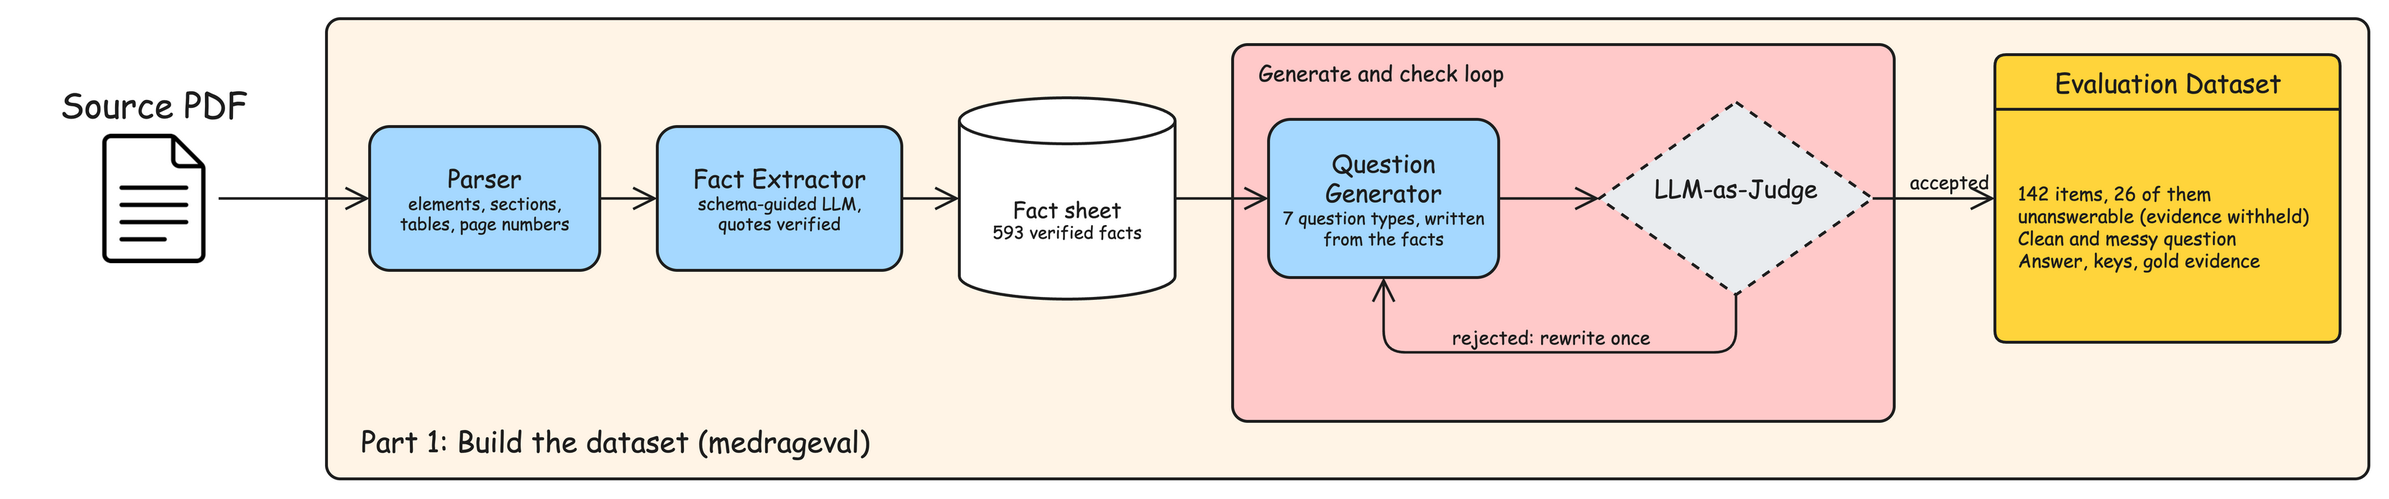
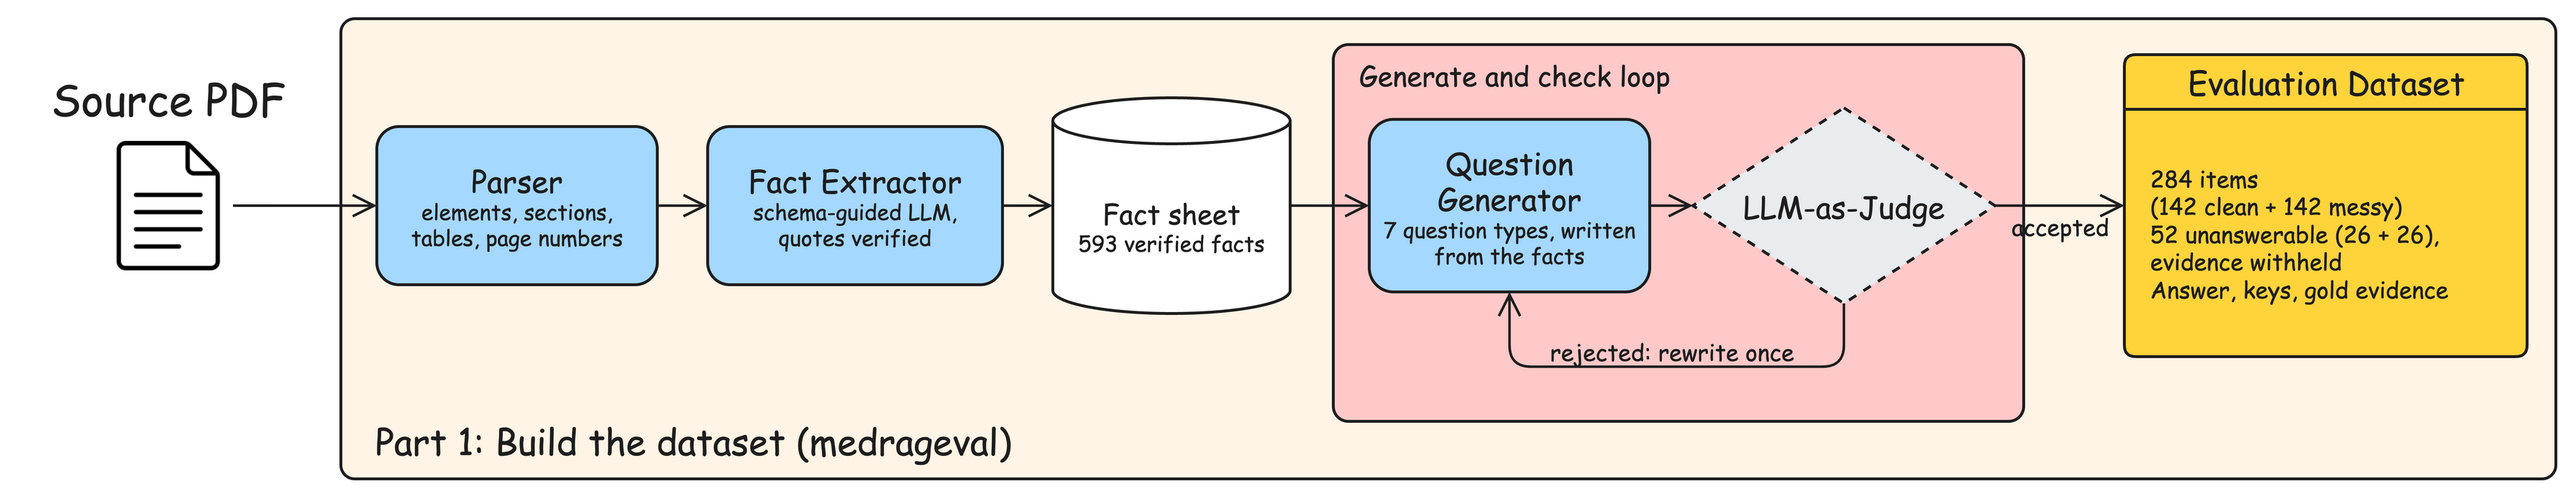
Update workflow diagrams and add dataset size to writeup

diff --git a/docs/WRITEUP.md b/docs/WRITEUP.md
@@ -33,6 +33,8 @@ Two variations help test the system:
 - **Missing evidence:** An answerable question is paired with related passages that do not contain the answer. A judge screens these passages. The model should say it cannot answer.
 - **Messy wording:** Each question gets a version with shorthand, typos or missing punctuation. Numbers stay unchanged. These rewrites are unchecked, so some may also change the meaning.
 
+With both versions, the dataset holds **284 questions (142 clean + 142 messy)**, 52 of them unanswerable (26 + 26).
+
 The dataset is saved as JSONL. Cached LLM responses let the same settings reproduce it without new calls.
 
 ## Part 2: Testing the RAG

diff --git a/README.md b/README.md
@@ -169,7 +169,7 @@ uv run medrageval eval data/datasets/ta1063 --out data/runs/my-rerun
 
 ## Go deeper
 
-**[docs/WRITEUP.md](docs/WRITEUP.md)** covers the methodology, design decisions, dataset format, metrics and analysis of the results.
+**[docs/WRITEUP.md](docs/WRITEUP.md)** explains how the dataset is built and the RAG is tested, with metrics and results across the tested settings.
 
 ---
 
